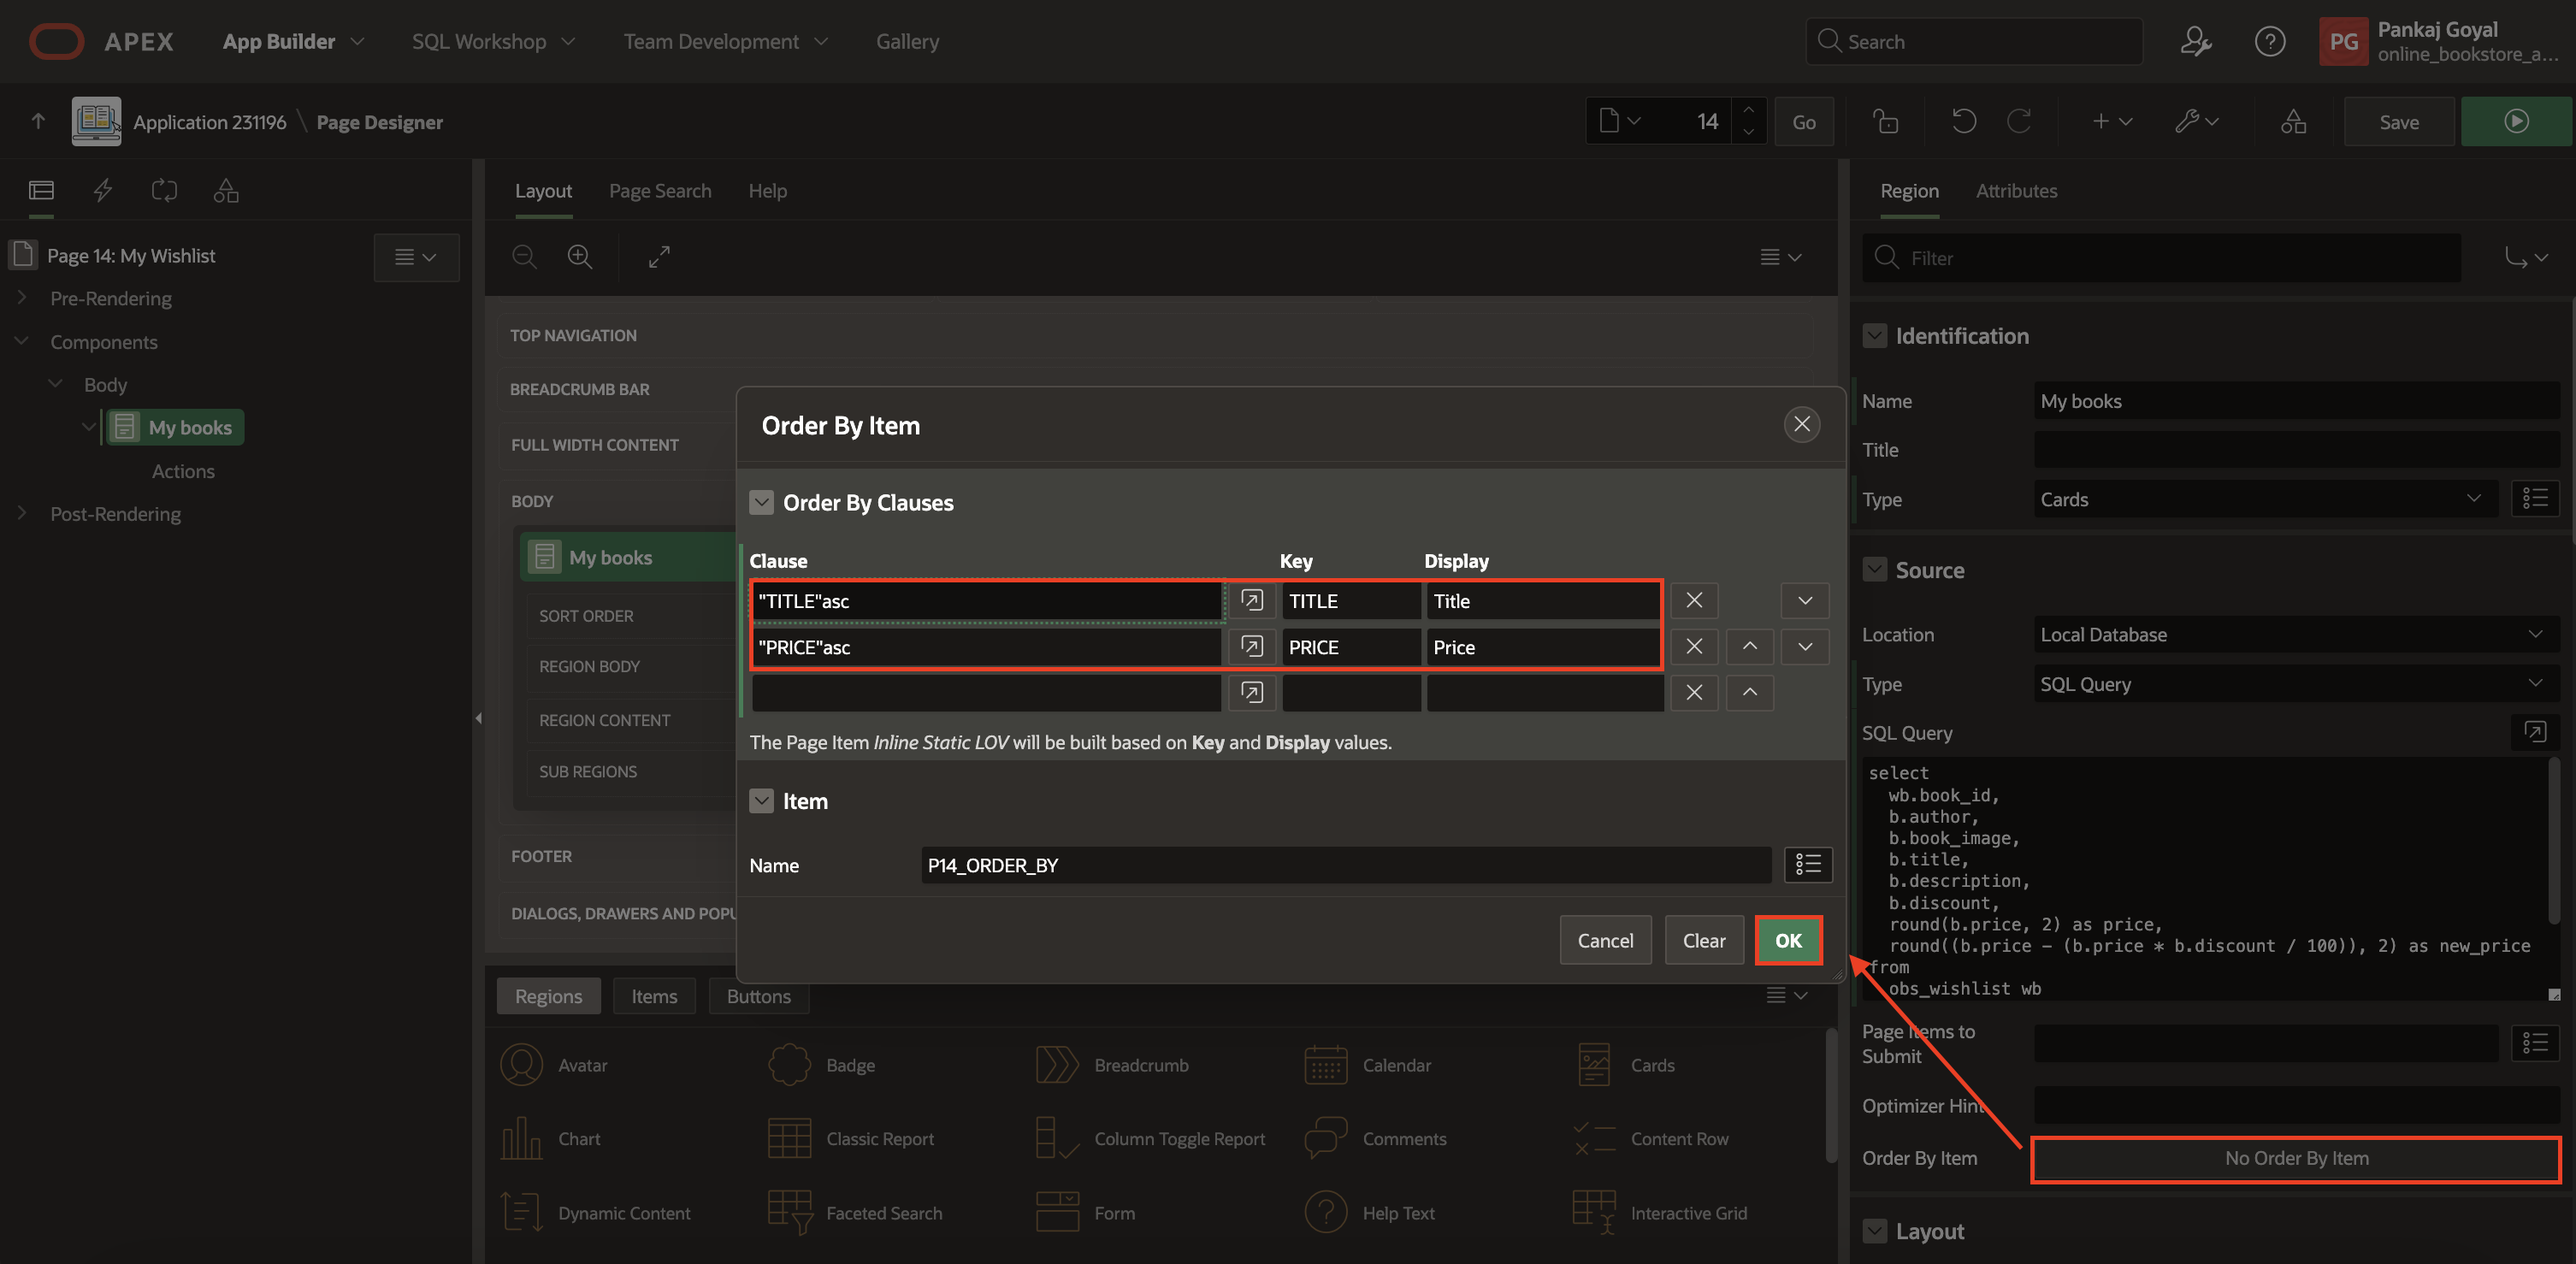
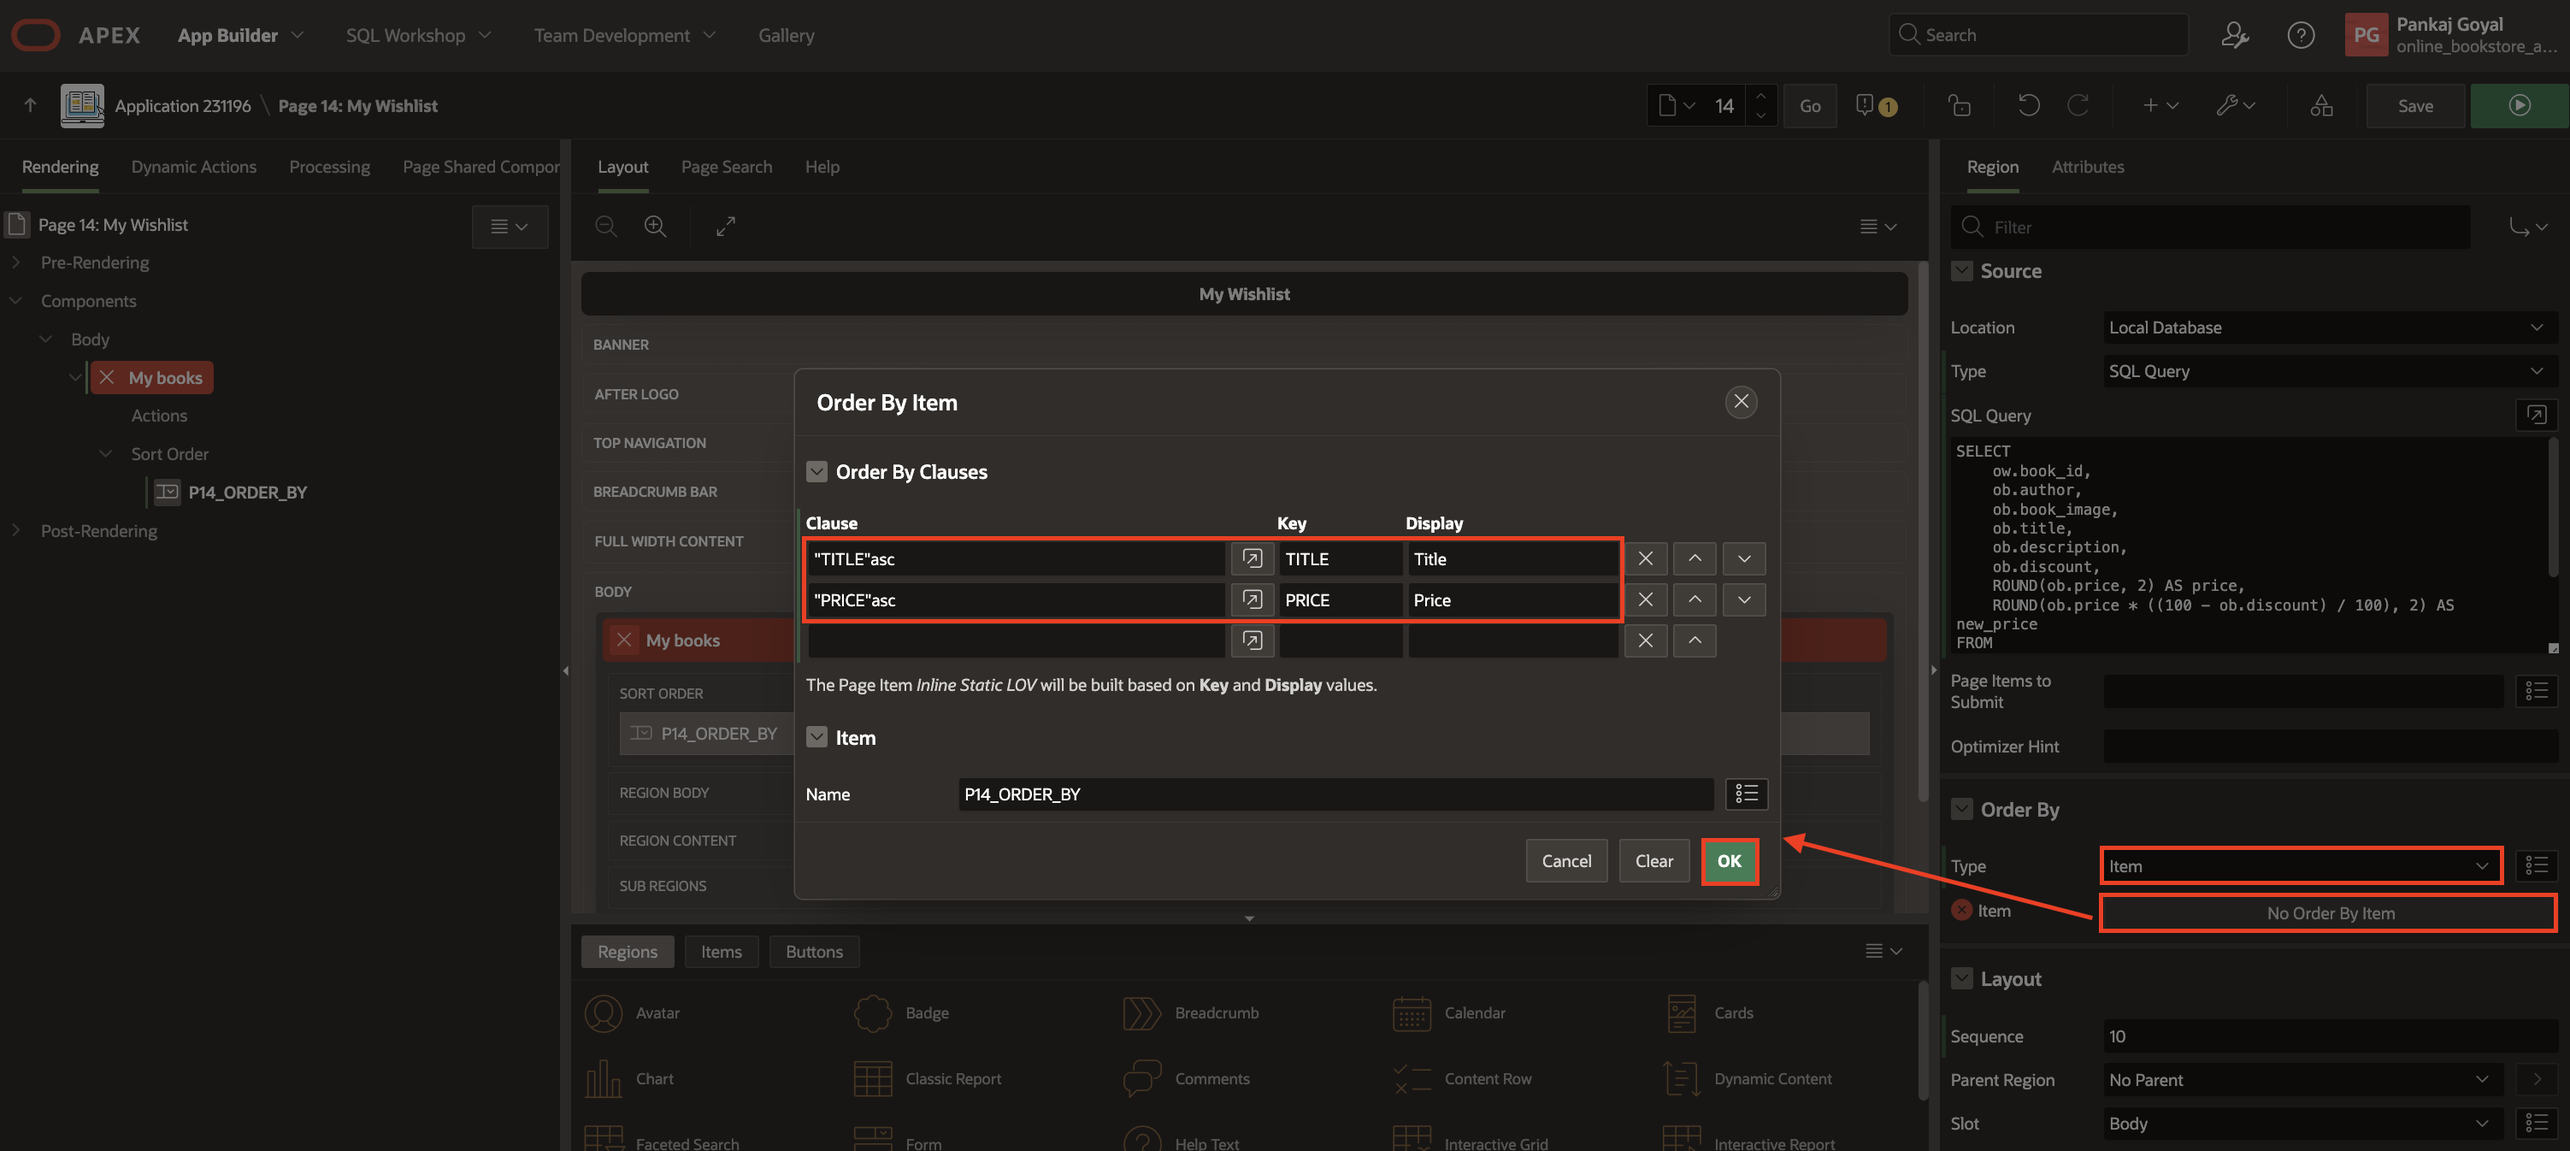
OBS 24.2 till Lab9

diff --git a/online-book-store-app/9-wishlist/9-wishlist.md b/online-book-store-app/9-wishlist/9-wishlist.md
@@ -120,14 +120,17 @@ In this lab, you will:
 
     ![Page Designer](images/success-ok.png ' ')
 
-10. Under Source > **Order By Item**: enter/select the following:
+10. Under **Order By**, enter/select the following:
 
-    | Clause     |  Key   | Display |
-    | ---------- |  ------ | ------ |
-    | "TITLE"asc | TITLE |  Title |
-    | "PRICE"asc | PRICE | Price |
+    - Type: **Item**
+    - Item: Click **No Order By Item** and enter the following:
 
-    Click **OK**.
+        | Clause     |  Key   | Display |
+        | ---------- |  ------ | ------ |
+        | "TITLE"asc | TITLE |  Title |
+        | "PRICE"asc | PRICE | Price |
+
+        Click **OK**.
 
     ![Page Designer](images/order-by-item1.png ' ')
 
@@ -275,7 +278,7 @@ In this lab, you will:
 
     ![close dialog](images/nav-to-page-18.png " ")
 
-2. In the left pane, right-click **Buttons Bar** and click **Create Button**.
+2. In the left pane, right-click **Buttons Bar** and select **Create Button**.
 
     ![close dialog](images/create-button1.png " ")
 
